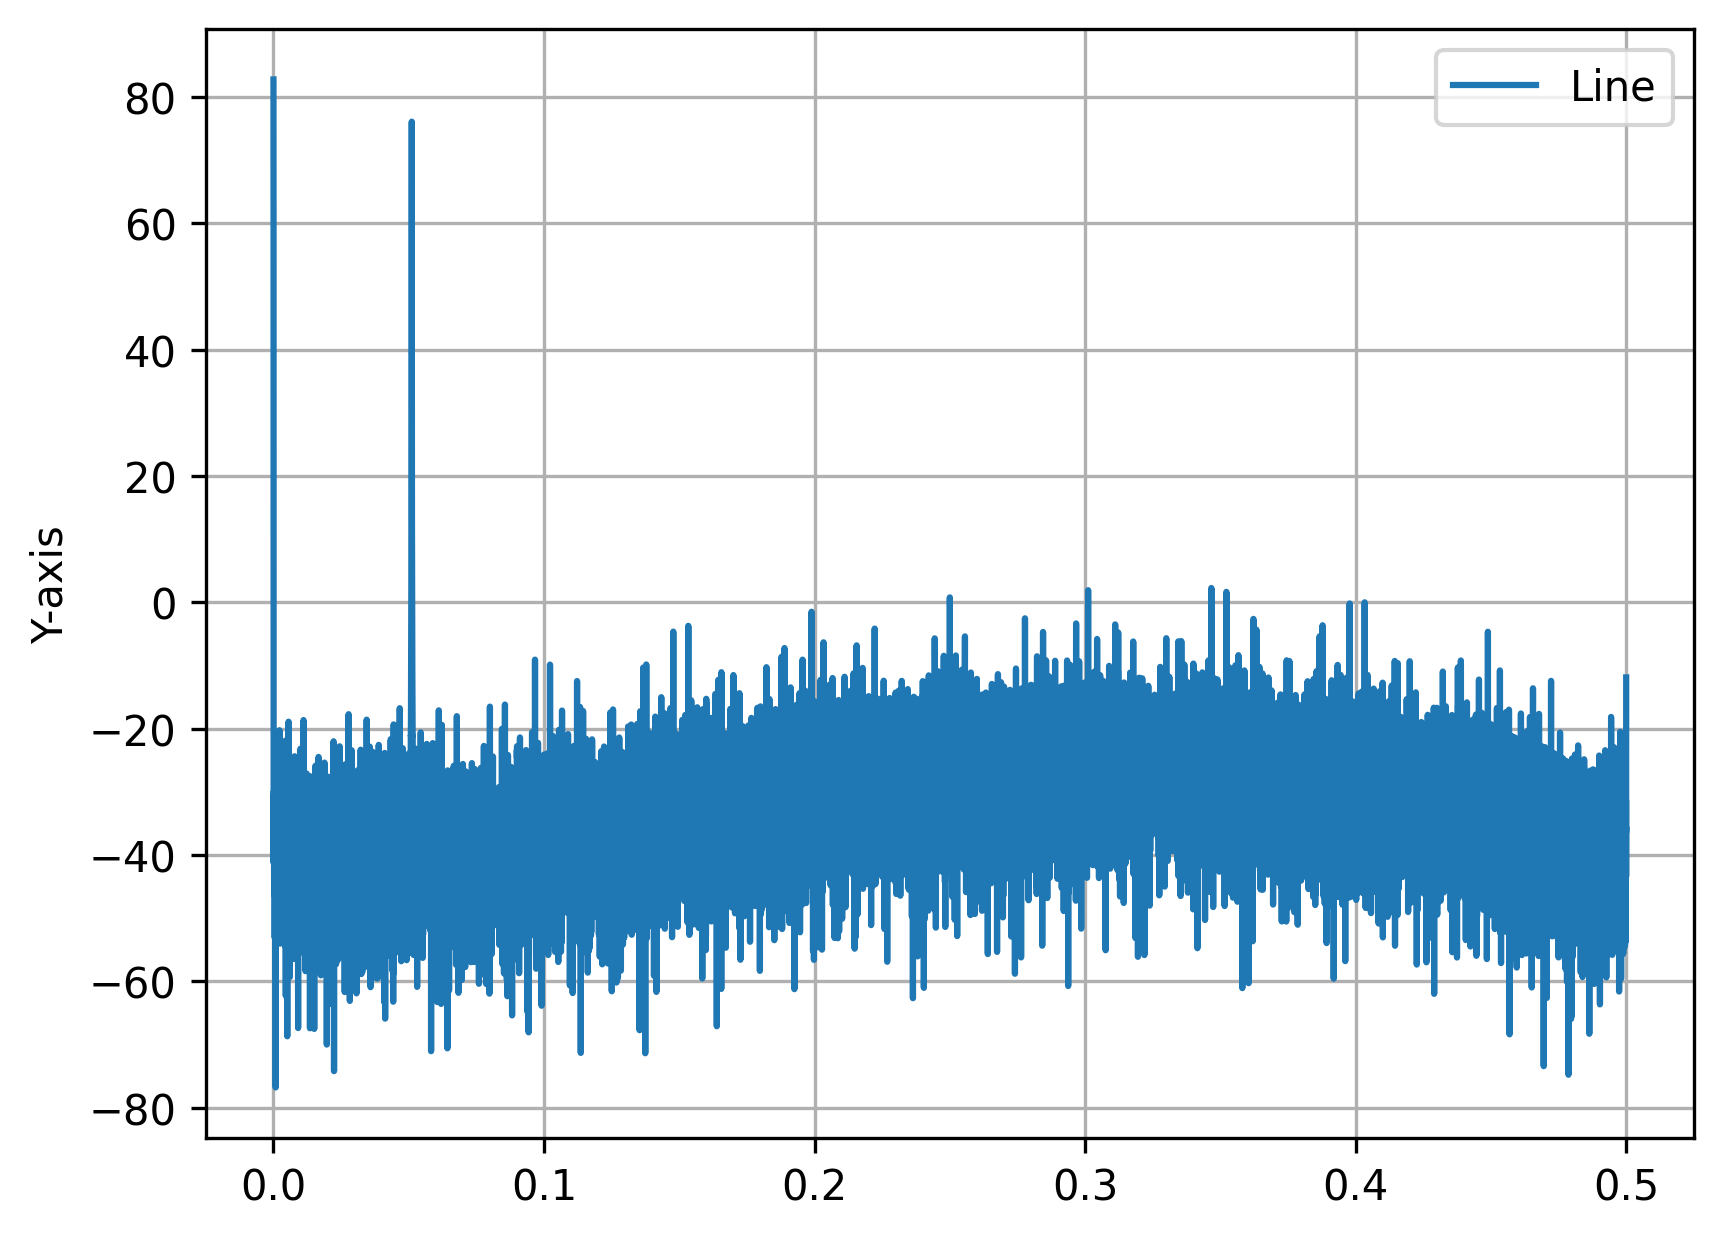
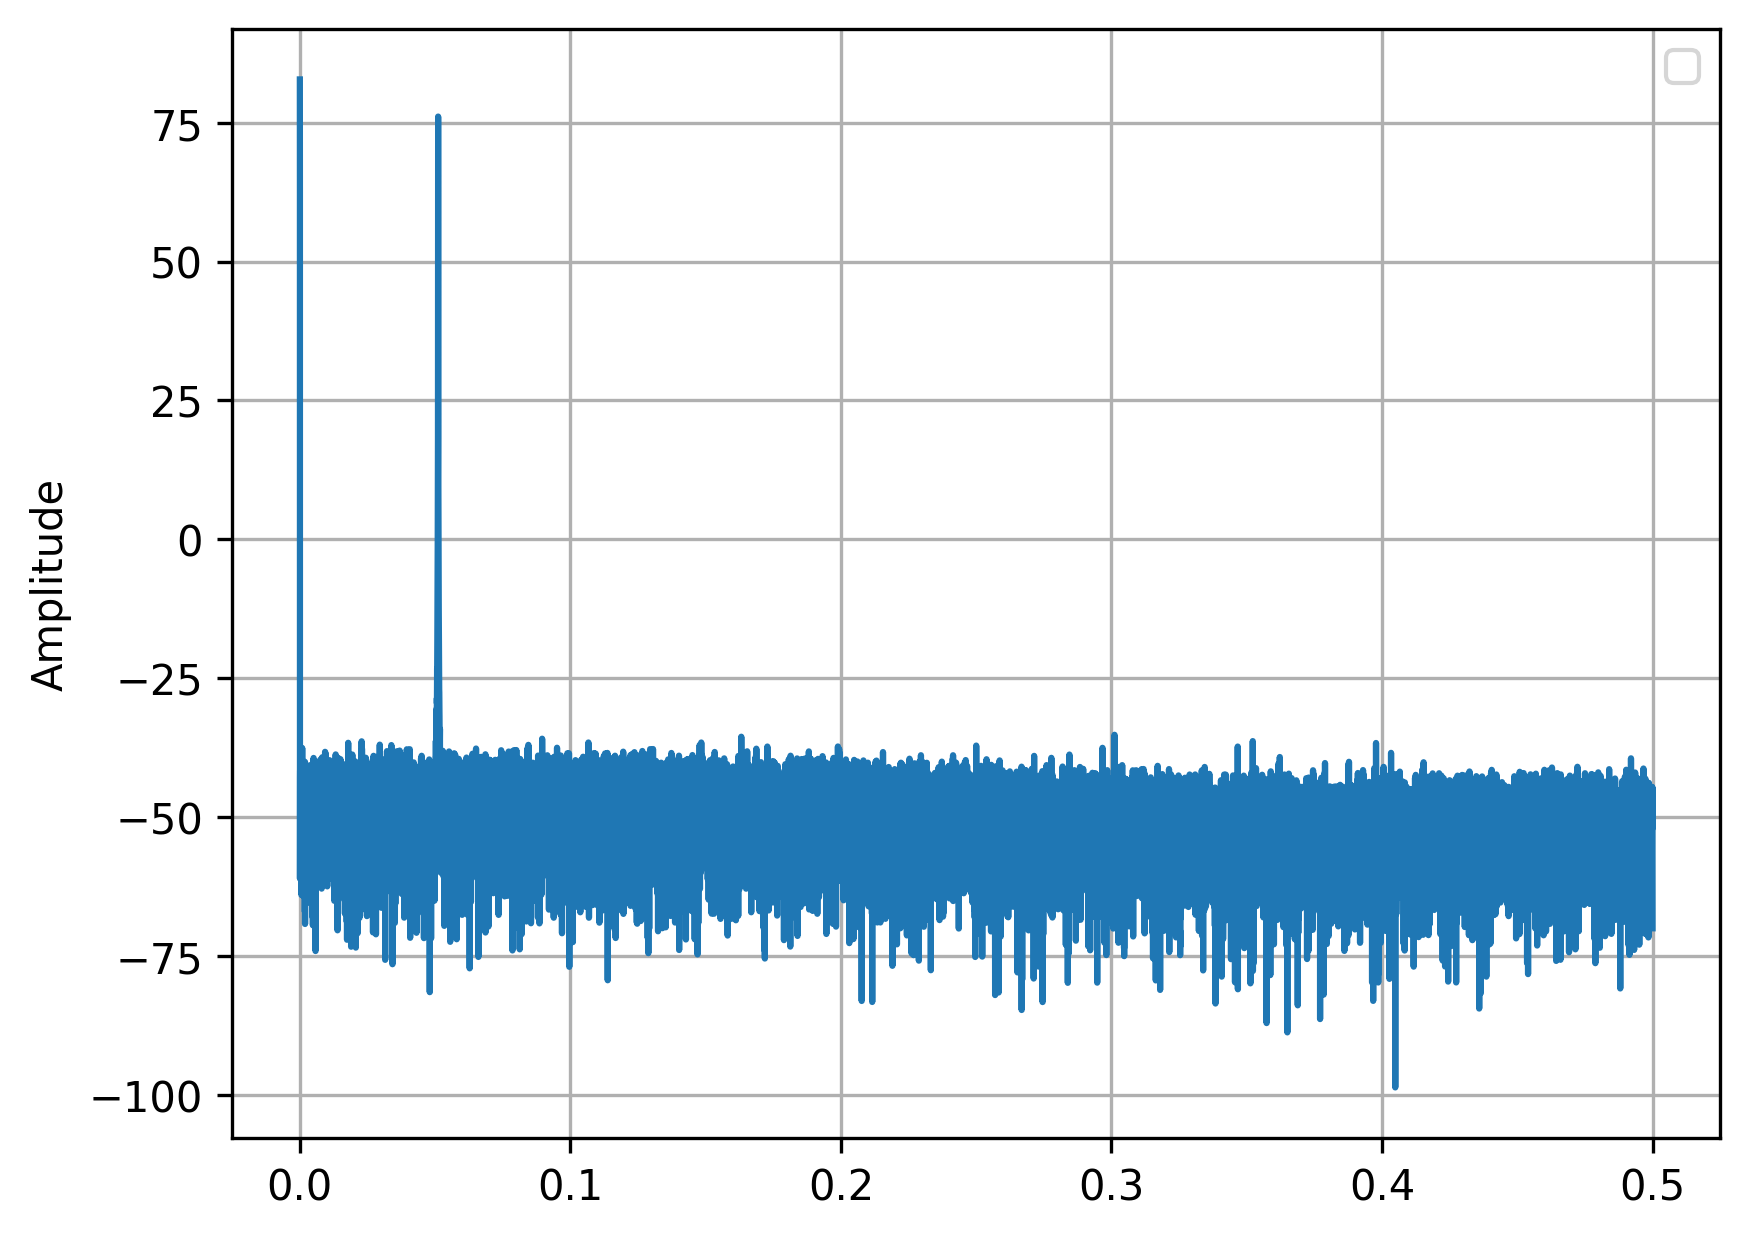
add the NN for env

diff --git a/SAR_ADC_neural_network_calibration_TI_env_non_ideal.py b/SAR_ADC_neural_network_calibration_TI_env_non_ideal.py
@@ -50,6 +50,7 @@ dataloader = DataLoader(dataset, batch_size=batch_size, shuffle=True)
 
 model = nn.Sequential(
     nn.Linear(n_bits_ * 4,4),  # First layer: Fully connected with 4 output 
+    #nn.Linear(4,4),
 )
 
 #initialize edge weight to reduce training time
@@ -70,10 +71,12 @@ model[0].weight.data = torch.tensor(initial_weight, dtype=torch.float32)
 criterion = nn.MSELoss()
 optimizer = optim.Adam(model.parameters(), lr=0.003)
 
-epochs = 500
+epochs = 5000
 
 
 outputs = model(inputs)
+
+target_lost = 0.0000000012
 
 #breakpoint()
 
@@ -97,6 +100,8 @@ for epoch in range(epochs):
 
     if (epoch + 1) % 10 == 0:
         print(f"Epoch [{epoch+1}/{epochs}], Loss: {loss.item():.10f}")
+        if loss.item() < target_lost:
+            break
 
 
 outputs = model(inputs)
@@ -112,7 +117,7 @@ y = 20*np.log10(signal_fft)
 
 # Create a line plot
 plt.plot(x, y, label="Line")  # Label for legend
-plt.ylabel("Y-axis")          # Label for y-axis
+plt.ylabel("Amplitude")          # Label for y-axis
 #plt.title("Simple Line Graph") # Title of the graph
 plt.legend()                   # Show legend
 plt.grid(True)                 # Add grid
@@ -129,8 +134,8 @@ x = np.abs(np.fft.fftfreq(2**16)[:signal_fft.shape[0]]) #* sample_rate*4
 y = 20*np.log10(signal_fft)
 
 # Create a line plot
-plt.plot(x, y, label="Line")  # Label for legend
-plt.ylabel("Y-axis")          # Label for y-axis
+plt.plot(x, y)  # Label for legend
+plt.ylabel("Amplitude")          # Label for y-axis
 #plt.title("Simple Line Graph") # Title of the graph
 plt.legend()                   # Show legend
 plt.grid(True)                 # Add grid
@@ -151,6 +156,6 @@ print("NN output")
 print(f"enob: [{signal_tools.spectrum.compute_enob(NN_output,nfft = 2**simulation_bit)}]")
 print(f"sfdr: [{signal_tools.spectrum.compute_sfdr(NN_output,nfft = 2**simulation_bit)}]")
 print(f"sndr: [{signal_tools.spectrum.compute_sndr(NN_output,nfft = 2**simulation_bit)}]")
-print(f"sndr: [{signal_tools.spectrum.compute_snr(NN_output,nfft = 2**simulation_bit)}]")
+print(f"snr: [{signal_tools.spectrum.compute_snr(NN_output,nfft = 2**simulation_bit)}]")
 
 breakpoint()
